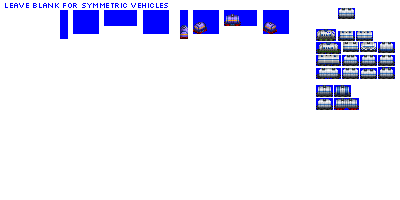
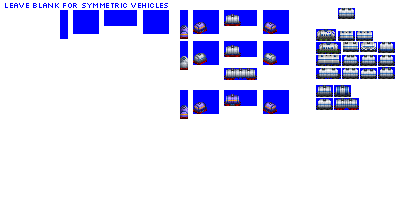
Change: WIP on chemicals tank car sprites

Changed region(s): [[0.45, 0.18, 0.72, 0.42], [0.45, 0.45, 0.72, 0.6], [0.54, 0.06, 0.6, 0.15]]

diff --git a/src/gestalt_graphics/graphics_constants.py b/src/gestalt_graphics/graphics_constants.py
@@ -58,8 +58,8 @@ cryo_tank_car_livery_recolour_maps = (("DFLT", {136: 5, 137: 7, 138: 9, 139: 11,
                                       ("CHLO", {136: 154, 137: 155, 138: 157, 139: 158,
                                                 140: 159, 141: 159, 142: 160, 143: 161}),)
 
-chemicals_tank_car_livery_recolour_maps = (("DFLT", {136: 5, 137: 7, 138: 9, 139: 11,
-                                                     140: 12, 141: 13, 142: 14, 143: 15}),
+chemicals_tank_car_livery_recolour_maps = (("DFLT", {136: CC1, 137: CC1+1, 138: CC1+2, 139: CC1+3,
+                                                     140: CC1+4, 141: CC1+5, 142: CC1+6, 143: CC1+7}),
                                            ("CHLO", {136: 154, 137: 155, 138: 157, 139: 158,
                                                      140: 159, 141: 159, 142: 160, 143: 161}),)
 
